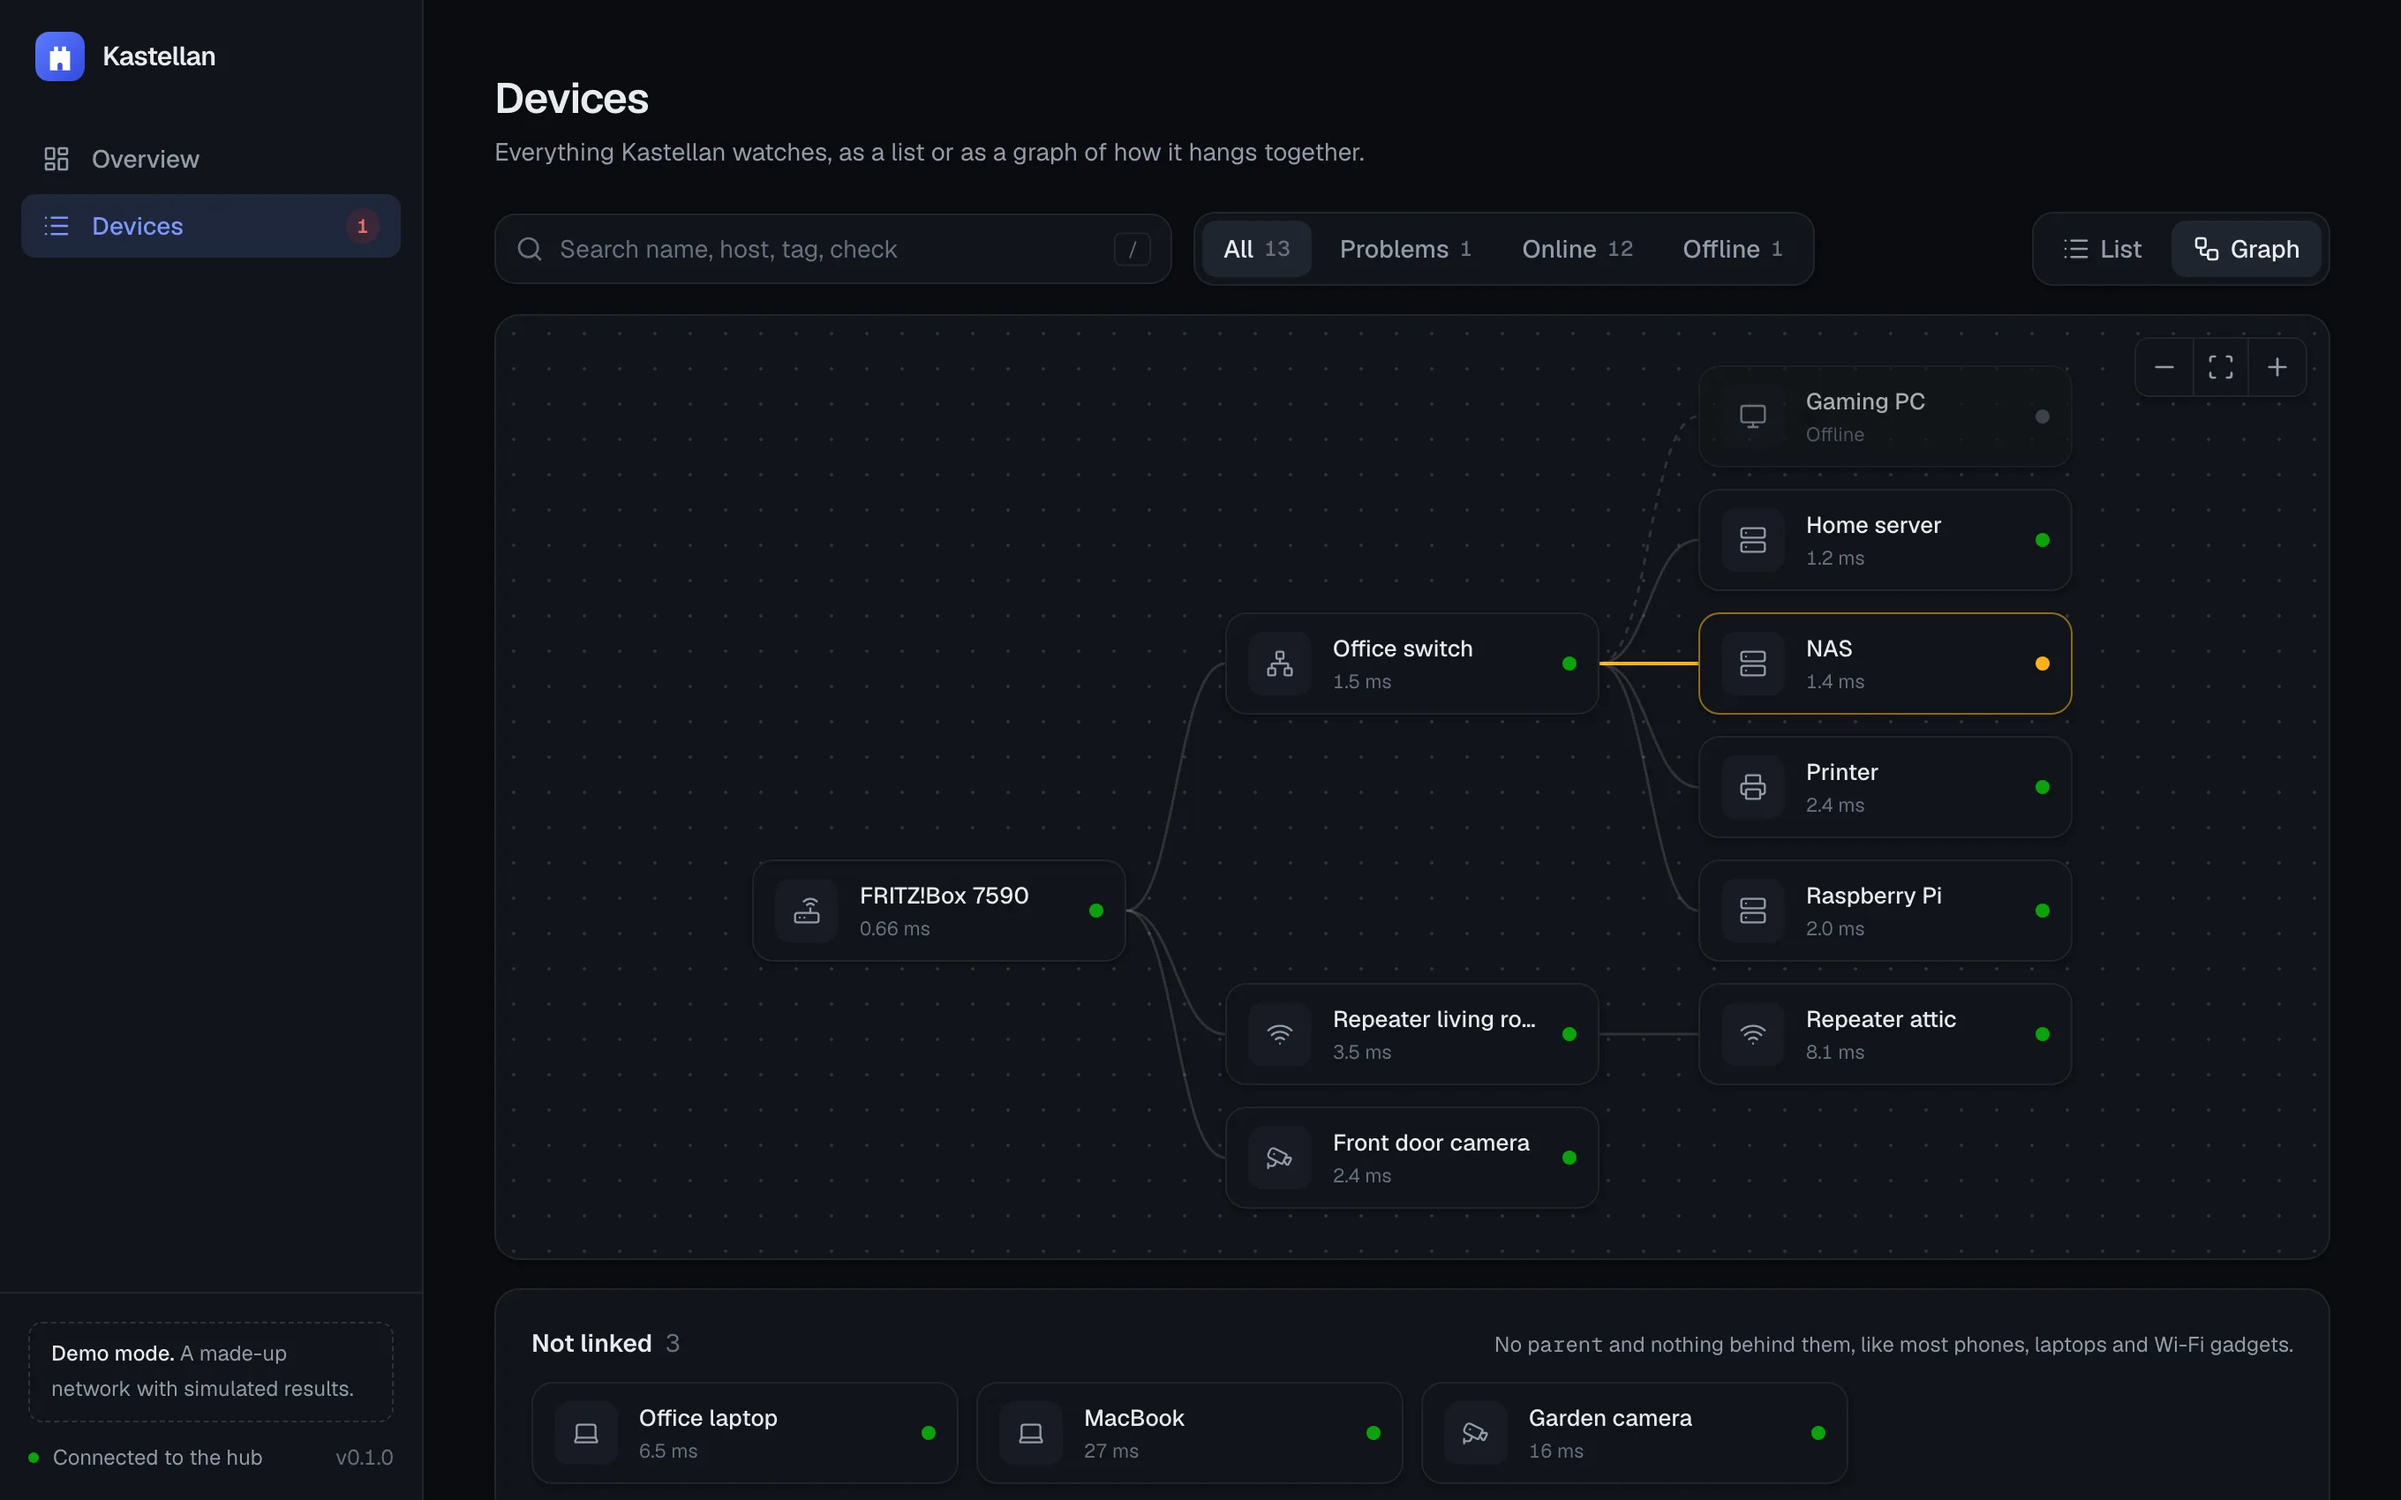
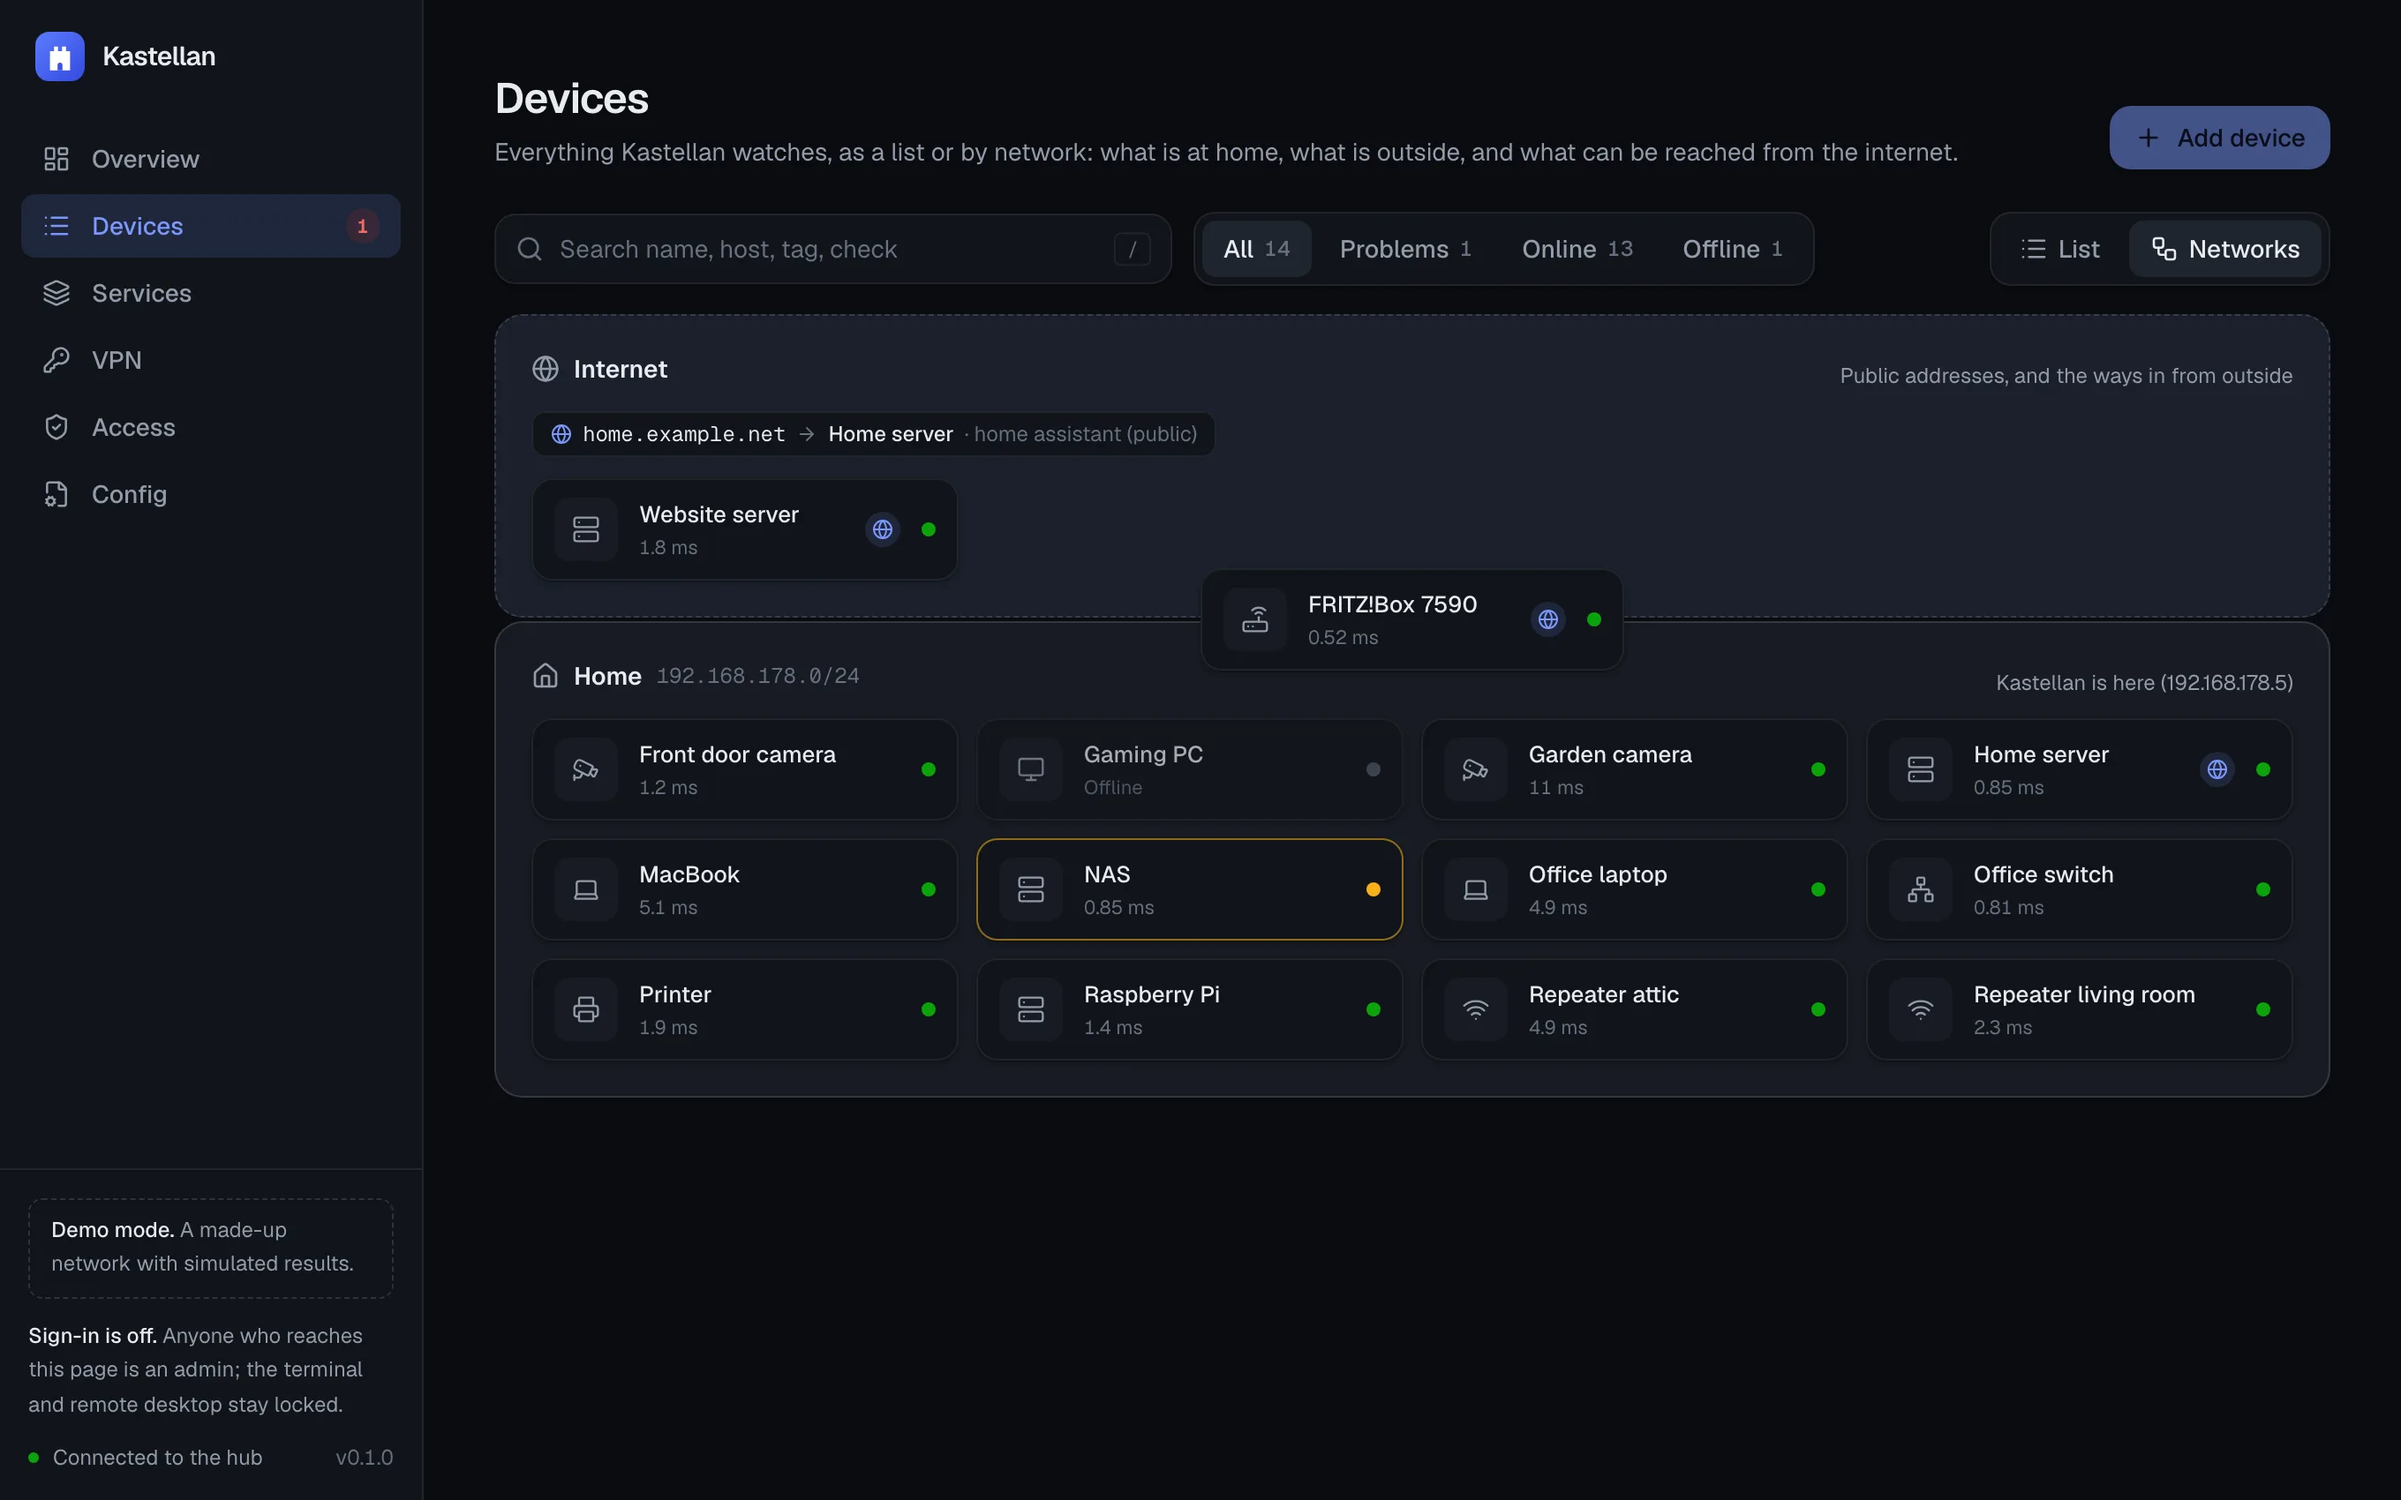
Website: the network view instead of the tree graph
Claude-Session: https://claude.ai/code/session_01FW6WZYpXR9VcVxE8otpBh9

diff --git a/website/index.html b/website/index.html
@@ -119,18 +119,18 @@
 
   <article class="feature flip reveal">
     <div class="feature-copy">
-      <p class="kicker">Graph</p>
-      <h2>See how it <b>hangs together</b></h2>
-      <p>Switch the device list to a graph: the router, the switch in the office, the mesh repeaters and what's wired behind them. When something breaks, its branch lights up, so a dead repeater doesn't look like five dead devices.</p>
+      <p class="kicker">Networks</p>
+      <h2>What's at home, and what's <b>open to the internet</b></h2>
+      <p>Switch the device list to its networks: home, a second site, the internet. The router sits on the boundary between home and the internet, and everything that can be reached from outside carries a globe, with each way in listed: a public name, and the device it leads to.</p>
       <ul class="points">
-        <li><b>Only links that matter.</b> Which access point a laptop happens to use isn't drawn; phones, laptops and Wi-Fi gadgets sit in their own row.</li>
+        <li><b>Found by itself.</b> Networks come from the addresses, and the router from the way out; name them, or put a device in several, in config.yaml.</li>
         <li><b>Search keeps the shape.</b> Filtering fades the rest of the network instead of removing it.</li>
       </ul>
     </div>
     <figure class="shot">
       <picture>
         <source srcset="img/graph-dark.webp" media="(prefers-color-scheme: dark)">
-        <img src="img/graph-light.webp" width="2720" height="1700" alt="The devices as a graph: the router on the left, the office switch and two mesh repeaters, the servers and printer behind the switch with the NAS branch in amber; below, the laptops and a Wi-Fi camera that have no links.">
+        <img src="img/graph-light.webp" width="2720" height="1700" alt="The devices by network: an Internet zone with a website server and one way in, home.example.net to the home server; the FRITZ!Box on the boundary between the Internet and Home; the Home zone with cameras, laptops, servers, the NAS in amber, and the home server marked as reachable from the internet.">
       </picture>
     </figure>
   </article>
@@ -173,7 +173,6 @@
   <span class="k">nas</span>:
     <span class="k">host</span>: nas.lan
     <span class="k">kind</span>: server
-    <span class="k">parent</span>: fritzbox        <span class="c"># for the graph</span>
     <span class="k">checks</span>:
       - ping
       - <span class="k">tcp</span>: 22
